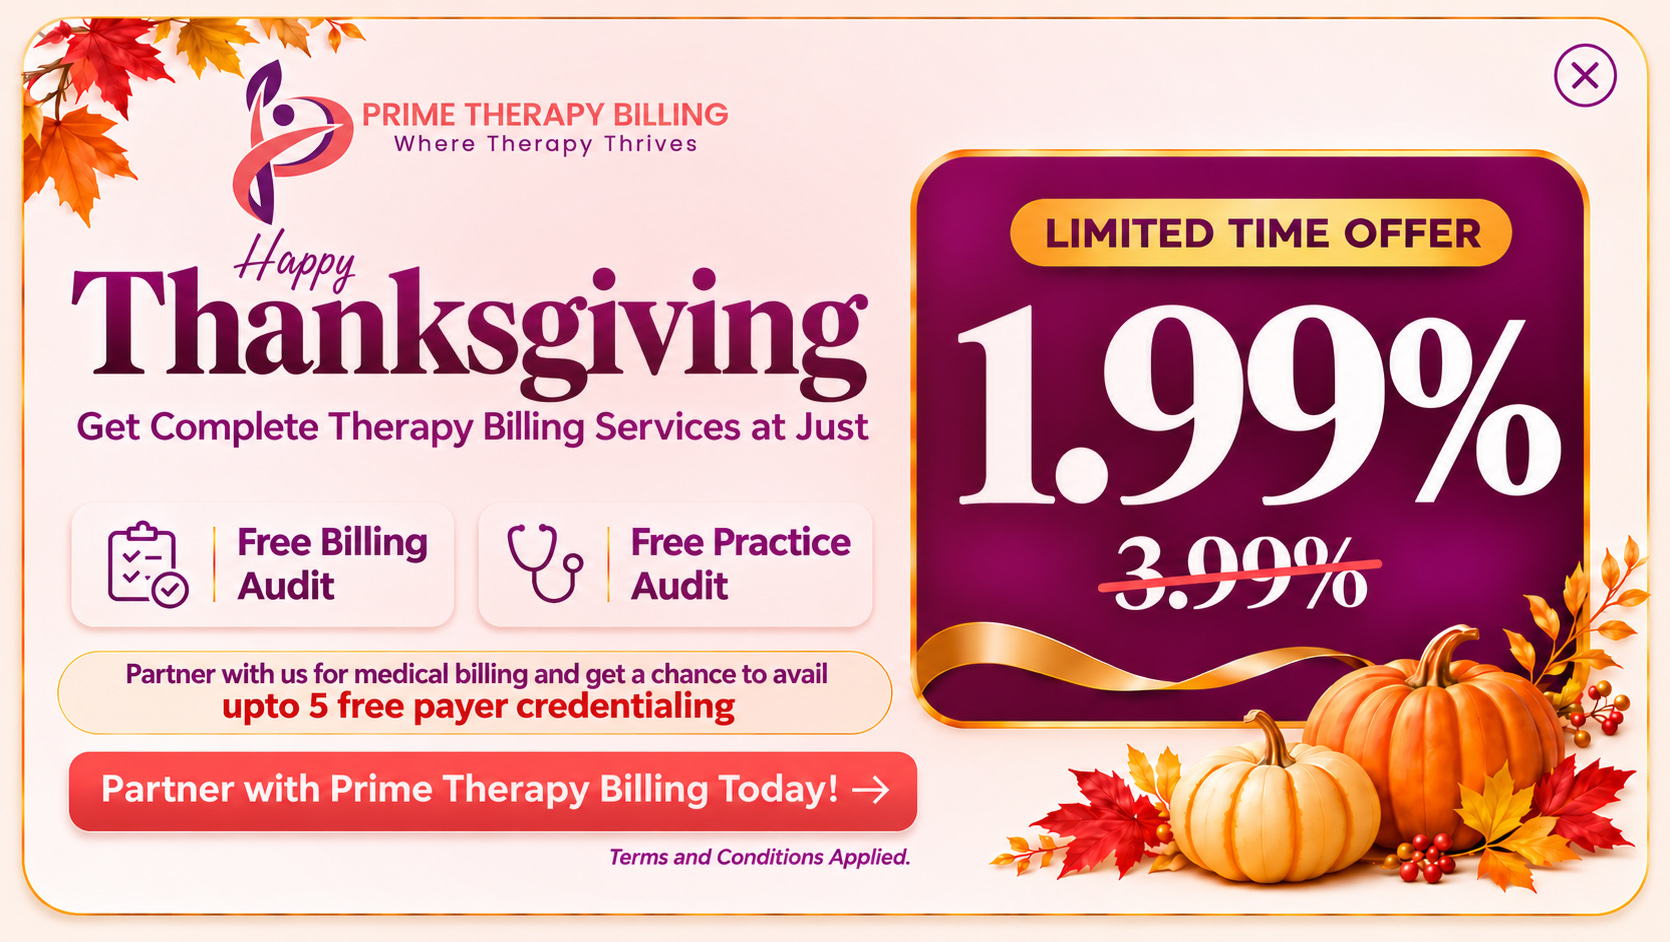
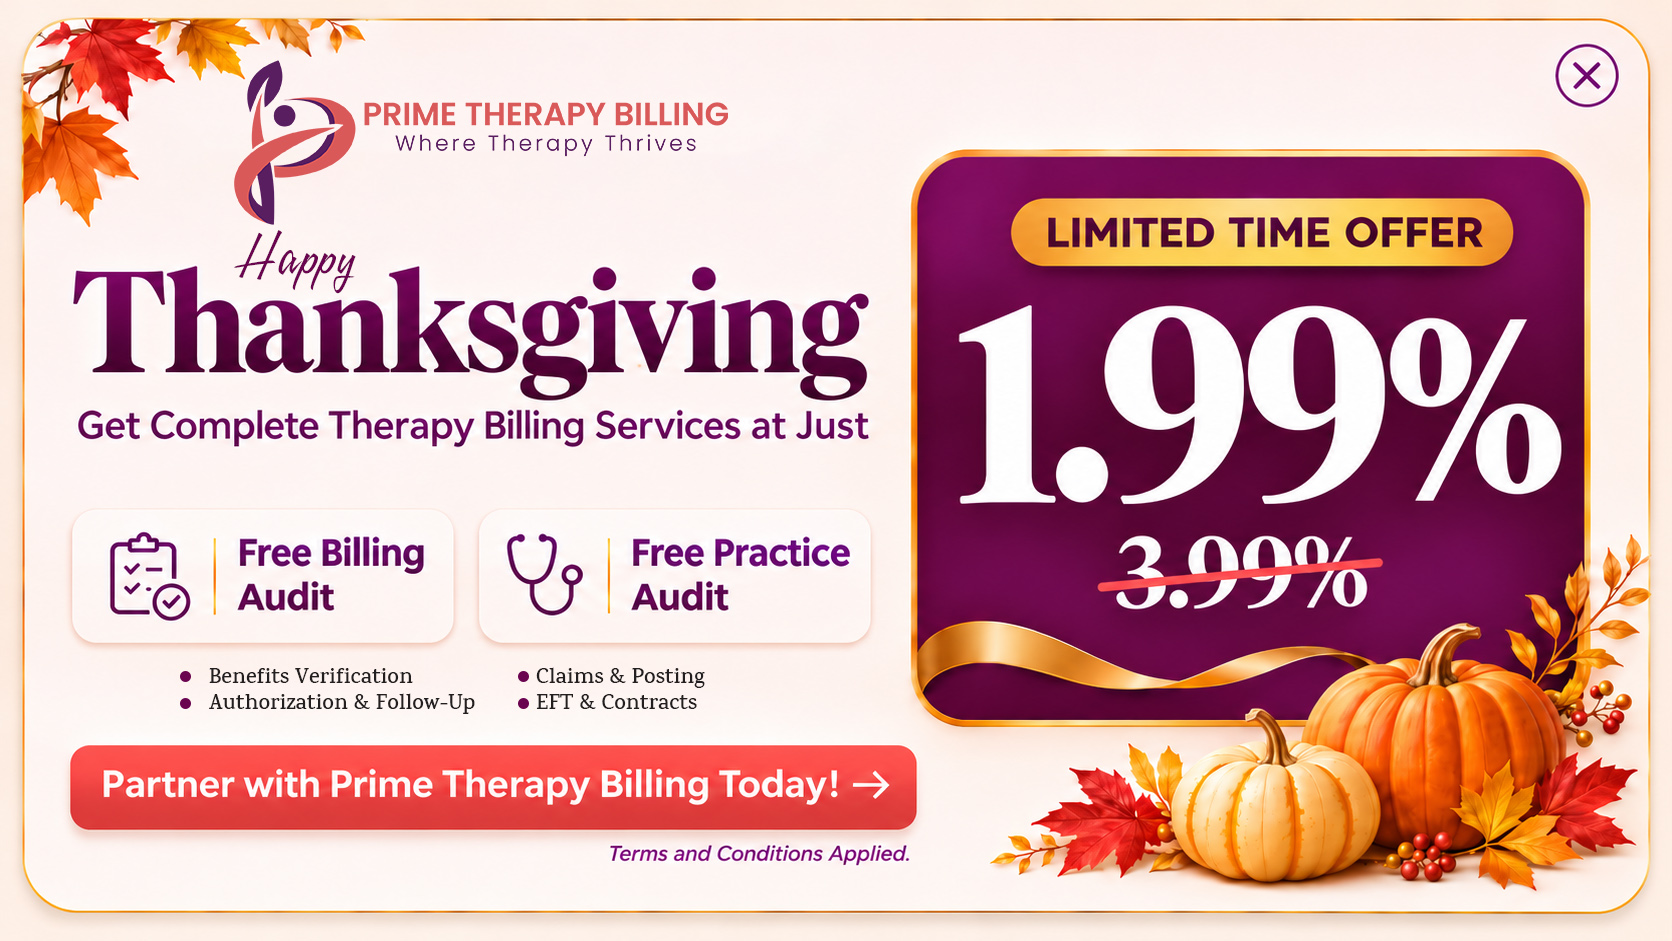
Update Thanksgiving popup design with service bullets
Replace the popup image with the new design listing Benefits
Verification, Authorization & Follow-Up, Claims & Posting, and
EFT & Contracts, and realign the CTA click area to the new button.

diff --git a/components/thanksgiving-popup.tsx b/components/thanksgiving-popup.tsx
@@ -82,9 +82,9 @@ export default function ThanksgivingPopup() {
       >
         <Image
           src="/thanksgiving-popup.png"
-          alt="Prime Therapy Billing - Happy Thanksgiving. Get complete therapy billing services at just 1.99% (was 3.99%). Limited time offer. Free Billing Audit. Free Practice Audit. Partner with us for medical billing and get a chance to avail up to 5 free payer credentialing. Terms and Conditions Applied."
-          width={1670}
-          height={942}
+          alt="Prime Therapy Billing - Happy Thanksgiving. Get complete therapy billing services at just 1.99% (was 3.99%). Limited time offer. Free Billing Audit. Free Practice Audit. Benefits Verification, Authorization & Follow-Up, Claims & Posting, EFT & Contracts. Terms and Conditions Applied."
+          width={1672}
+          height={941}
           priority
           sizes="(max-width: 960px) 100vw, 920px"
           className="block h-auto w-full select-none"
@@ -106,7 +106,7 @@ export default function ThanksgivingPopup() {
           onClick={openHeroPopup}
           aria-label="Partner with Prime Therapy Billing Today"
           className="tg-popup-cta absolute rounded-[12px] cursor-pointer focus-visible:outline focus-visible:outline-2 focus-visible:outline-white"
-          style={{ left: "4%", top: "79.6%", width: "51.1%", height: "8.9%" }}
+          style={{ left: "4.1%", top: "79.1%", width: "50.8%", height: "9.2%" }}
         />
       </div>
 
